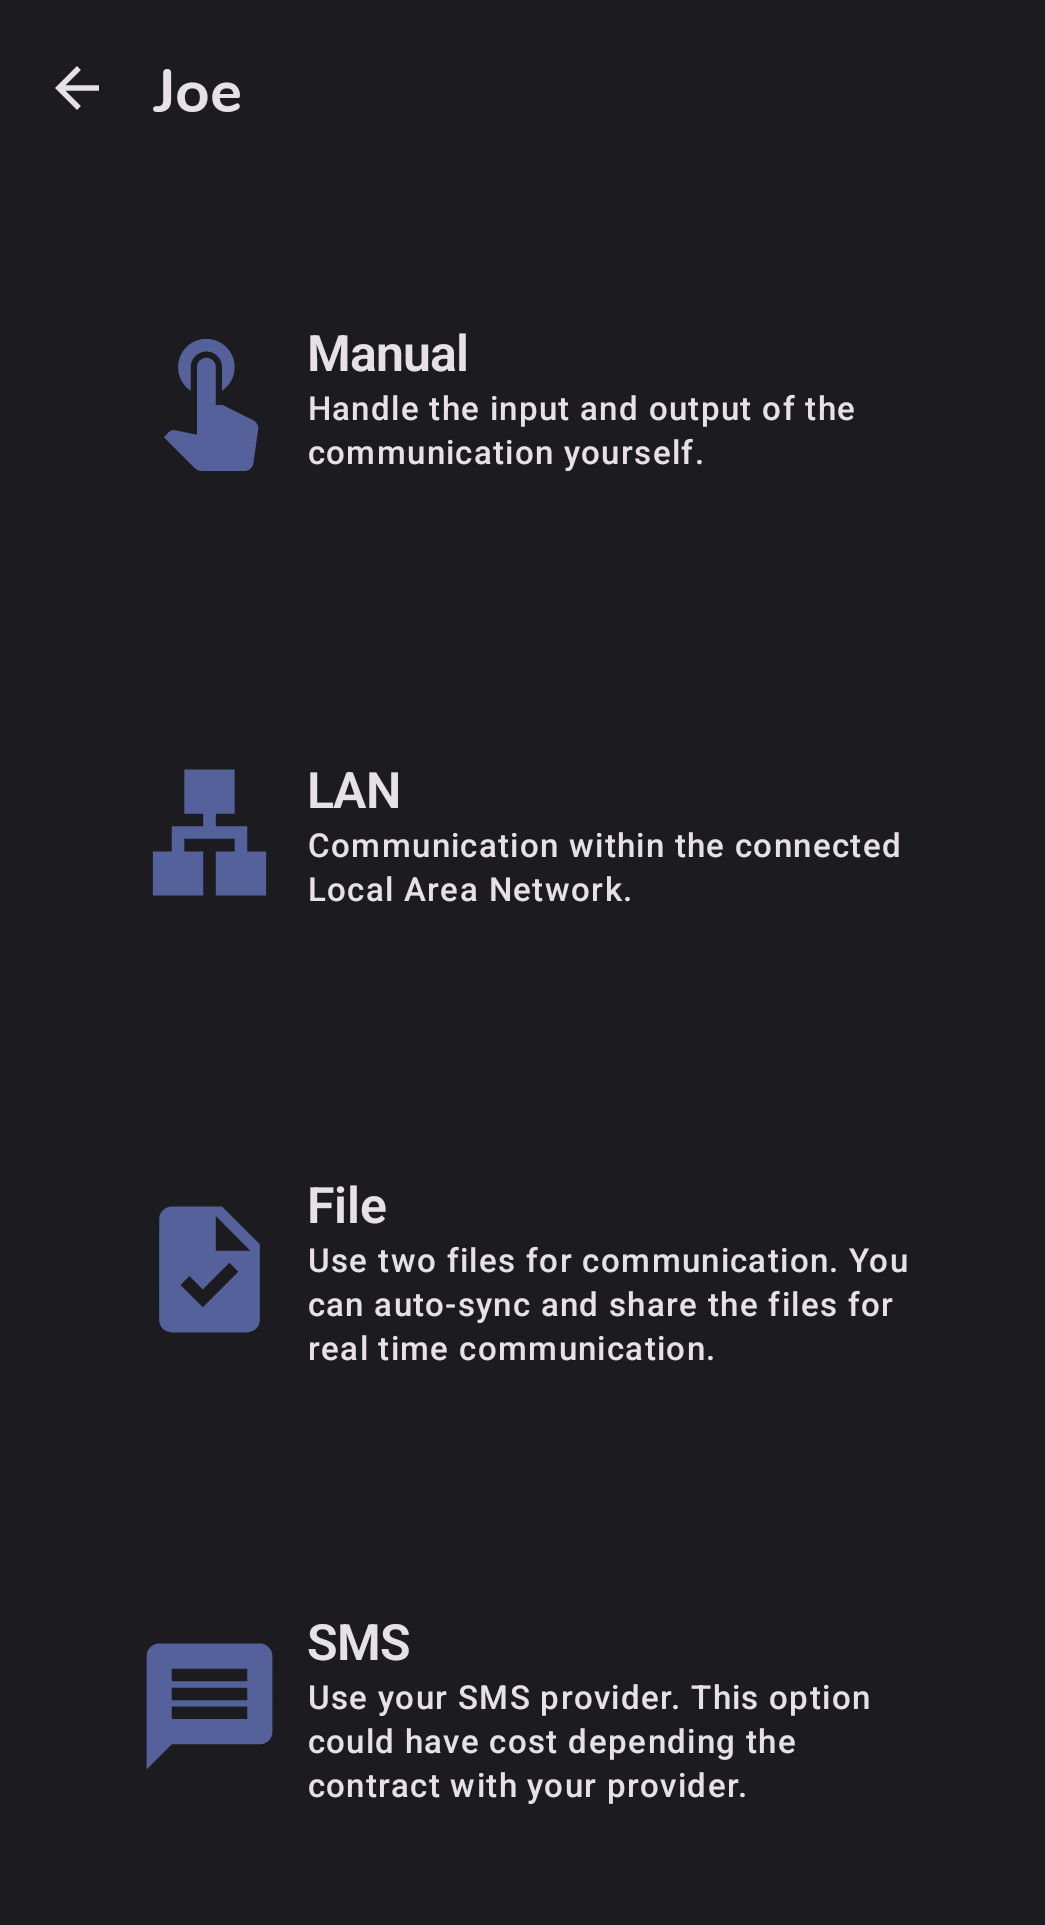
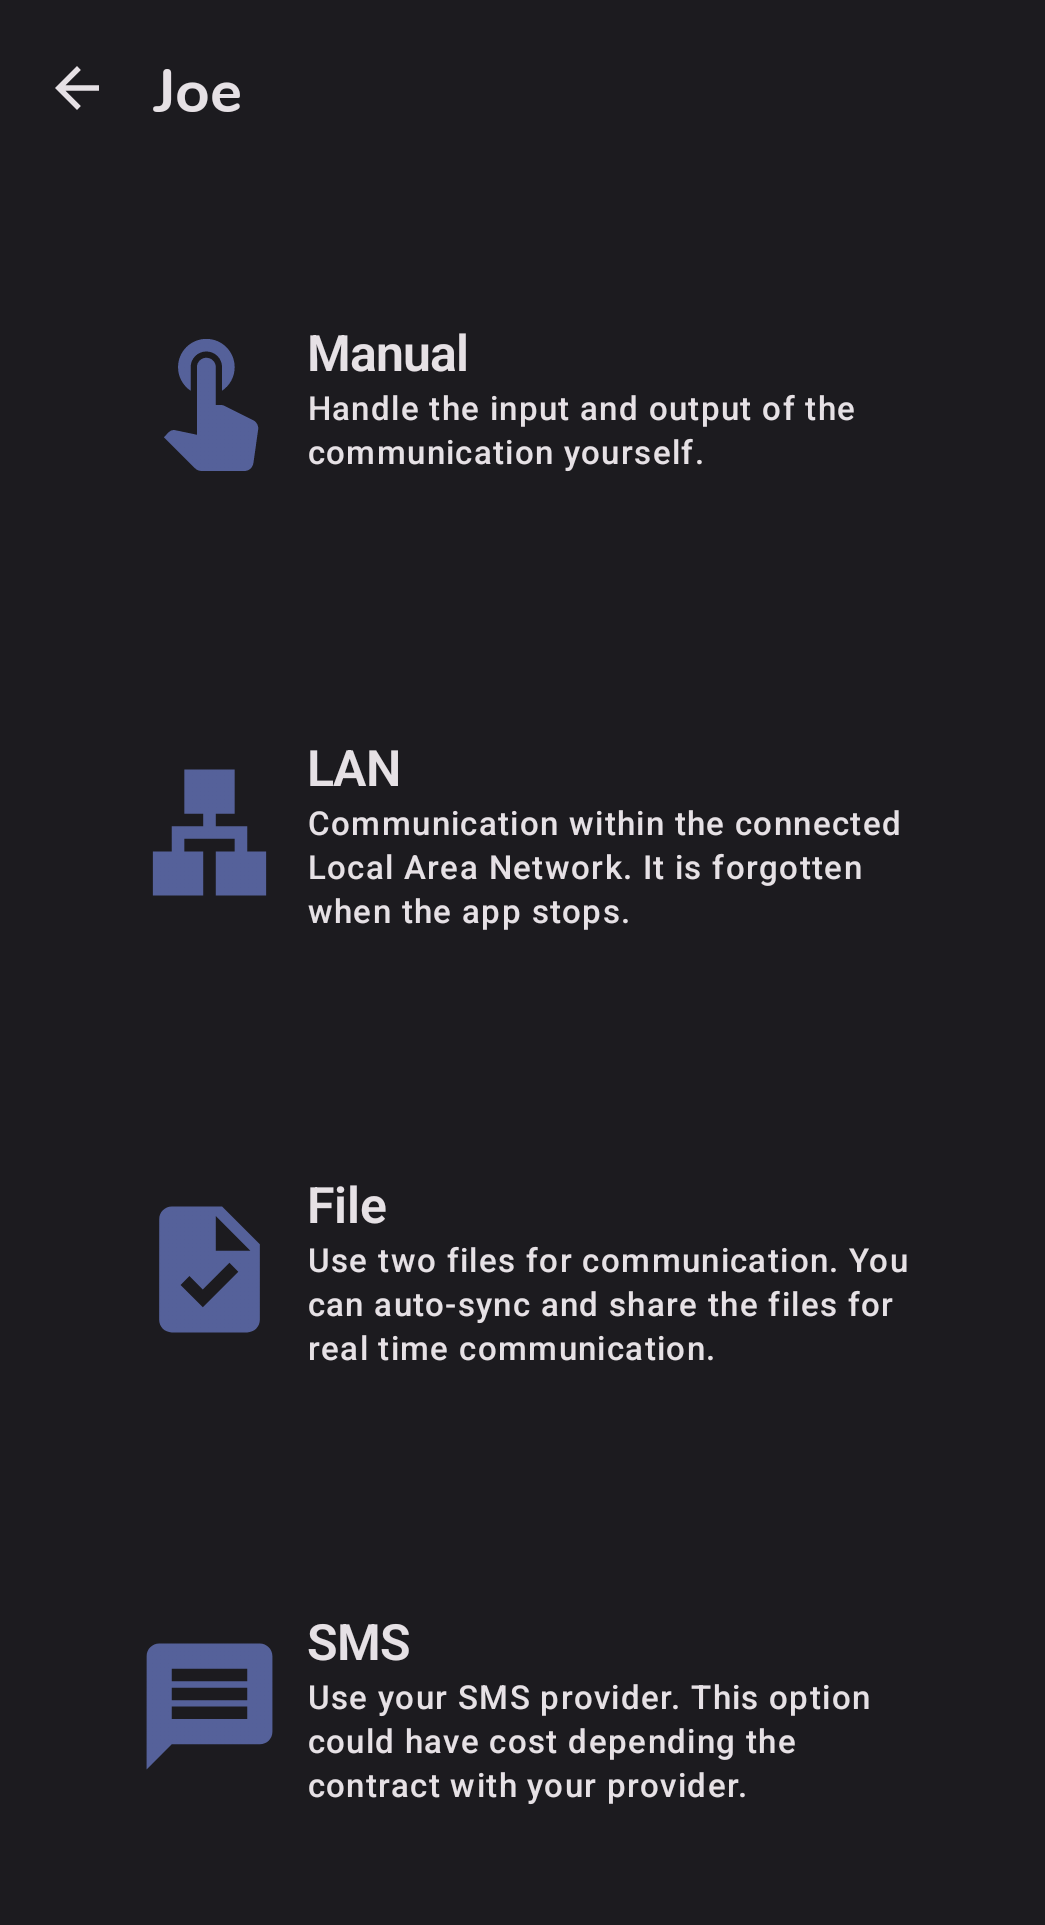
WIP

Changed region(s): [[0.2756, 0.374, 0.8574, 0.4987]]

diff --git a/androidUI/src/androidTest/java/io/github/nfdz/cryptool/ui/encryption/LanSourceDialogScreenshotTest.kt b/androidUI/src/androidTest/java/io/github/nfdz/cryptool/ui/encryption/LanSourceDialogScreenshotTest.kt
@@ -1,0 +1,39 @@
+package io.github.nfdz.cryptool.ui.encryption
+
+import dev.testify.ComposableScreenshotRule
+import dev.testify.annotation.ScreenshotInstrumentation
+import io.github.nfdz.cryptool.ui.DarkColorScheme
+import io.github.nfdz.cryptool.ui.LightColorScheme
+import io.github.nfdz.cryptool.ui.test.TestEntry
+import org.junit.Rule
+import org.junit.Test
+
+class LanSourceDialogScreenshotTest {
+
+    private val networkAddresses = listOf("1.2.3.4")
+    private val serverPort = 123
+    private val serverSlot = 3
+
+    @get:Rule
+    val rule = ComposableScreenshotRule()
+
+    @ScreenshotInstrumentation
+    @Test
+    fun light() {
+        rule.setCompose {
+            TestEntry(colorScheme = LightColorScheme) {
+                LanSourceDialogContent(networkAddresses, serverPort, serverSlot) {}
+            }
+        }.assertSame()
+    }
+
+    @ScreenshotInstrumentation
+    @Test
+    fun dark() {
+        rule.setCompose {
+            TestEntry(colorScheme = DarkColorScheme) {
+                LanSourceDialogContent(networkAddresses, serverPort, serverSlot) {}
+            }
+        }.assertSame()
+    }
+}
